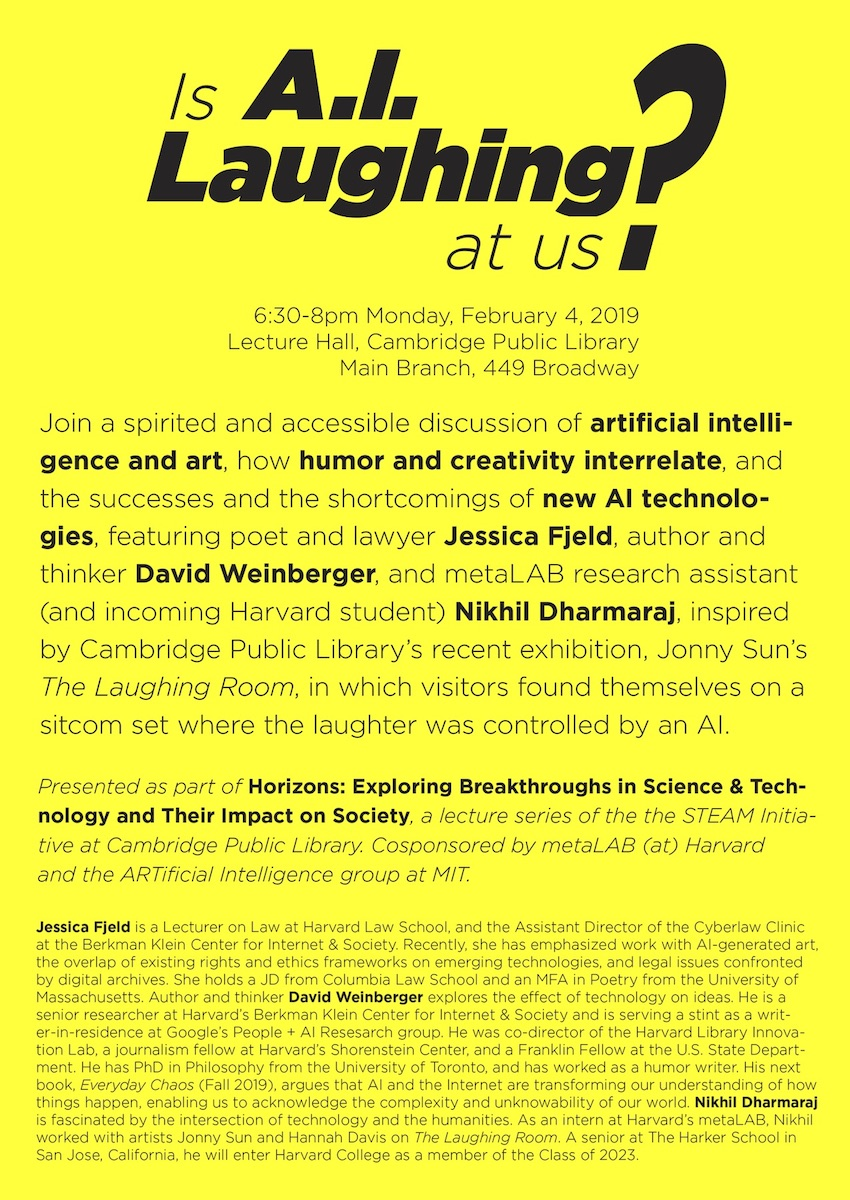
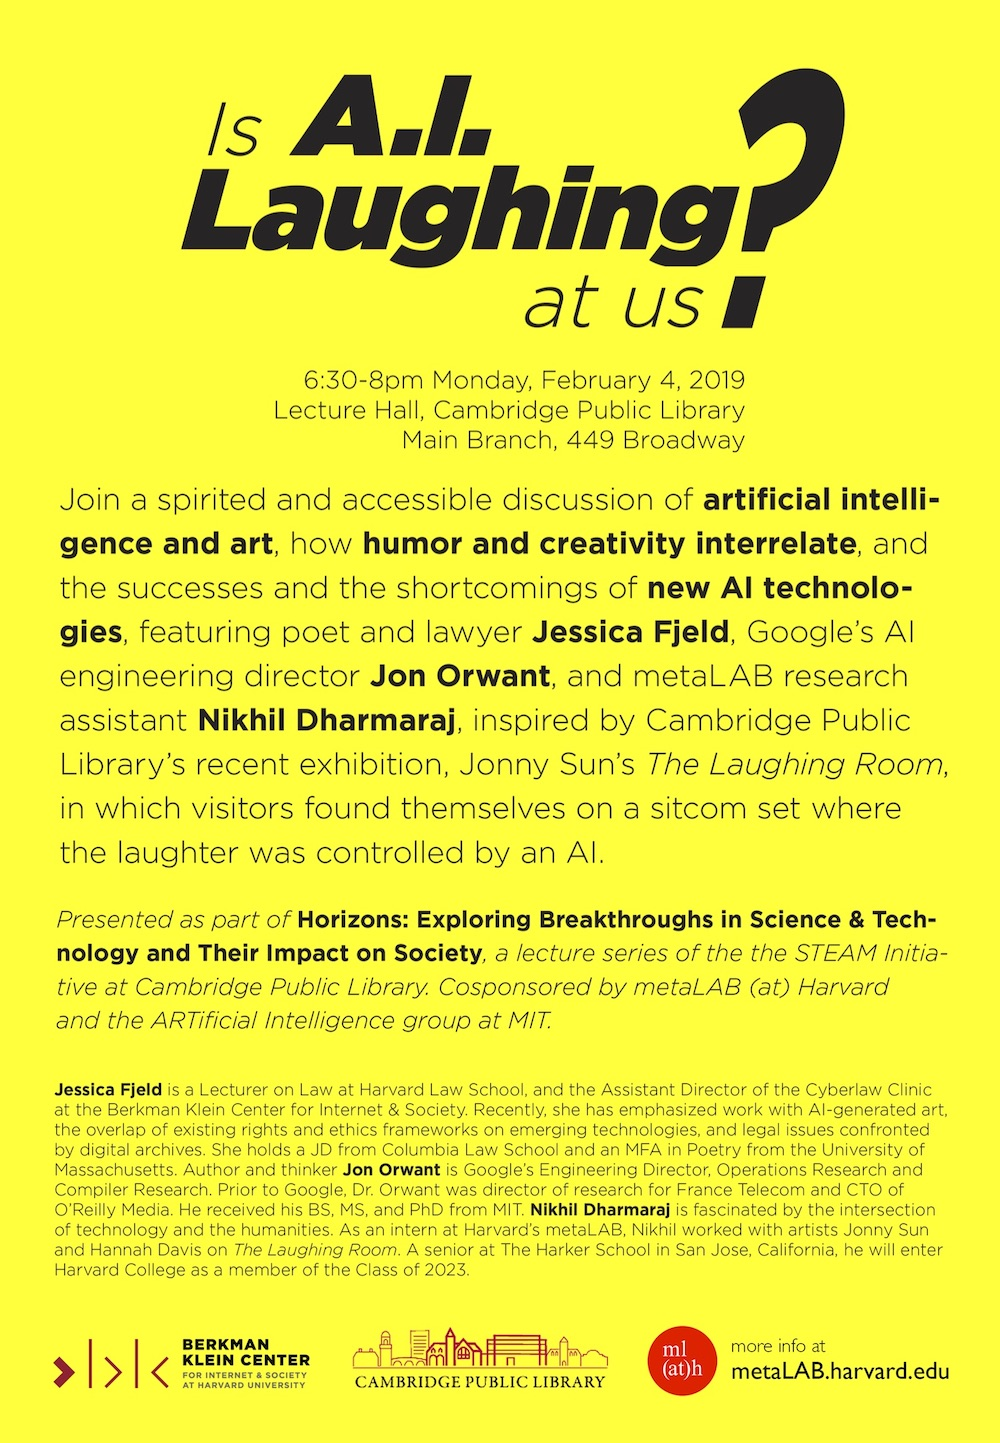
ai laughing update

Changed region(s): [[0.0306, 0.0308, 0.9788, 0.9867]]

diff --git a/_projects/ailaughing.md b/_projects/ailaughing.md
@@ -27,7 +27,7 @@ thumbnail_format:
 media:
   - medium:
     image: img0.jpg
-    id: "00"
+    id: "0"
     stat: featured
 
 
@@ -48,10 +48,14 @@ A conversation with David Weinberger, Jessica Fjeld, and Nikhil Dharmaraj"
 Monday, February 04, 2019, 6:30-8pm<br />
 Lecture Hall, Main Branch, 449 Broadway**
 
-Join a spirited and accessible discussion of artificial intelligence and art, how humor and creativity interrelate, and the successes and the shortcomings of new Al technologies, featuring poet and lawyer Jessica Fjeld, author and thinker David Weinberger, and metaLAB research assistant (and incoming Harvard student) Nikhil Dharmaraj. Inspired by Cambridge Public Library's recent exhibition, **[The Laughing Room by Jonny Sun and Hannah Davis](../laughingroom)**, in which visitors found themselves on a sitcom set where the laughter was controlled by an Al.
+Join a spirited and accessible discussion of artificial intelligence and art, how humor and creativity interrelate, and the successes and the shortcomings of new Al technologies, featuring poet and lawyer Jessica Fjeld, Google AI Engineering Director Jon Orwant, and metaLAB research assistant (and incoming Harvard student) Nikhil Dharmaraj. Inspired by Cambridge Public Library's recent exhibition, **[The Laughing Room by Jonny Sun and Hannah Davis](../laughingroom)**, in which visitors found themselves on a sitcom set where the laughter was controlled by an Al.
 
 *Presented as part of Horizons: Exploring Breakthroughs in Science & Technology and Their Impact on Society, a lecture series of the the STEAM Initiative at Cambridge Public Library Cosponsored by metaLAB (at) Harvard and the ARTificial Intelligence group at MIT.*
 
-**Jessica Fjeld** is a Lecturer on Law at Harvard Law School. and the Assistant Director of the Cyberlaw Clinic at the Berkman Klein Center for Internet & Society. Recently, she has emphasized work with Al-generated art. the overlap of existing rights and ethics frameworks on emerging technologies. and legal issues confronted by digital archives. She holds a JD from Columbia Law School and an MFA in Poetry from the University of Massachusetts. Author and thinker **David Weinberger** explores the effect of technology on ideas. He is a senior researcher at Harvard's Berkman Klein Center for Internet & Society and is serving a stint as a writer-in-residence at Google's People + Al Resesarch group He was co-director of the Harvard Library Innovation Lab. a journalism fellow at Harvard's Shorenstein Center. and a Franklin Fellow at the US. State Department. He has PhD in Philosophy from the University of Toronto, and has worked as a humor writer. His next book, *Everyday Chaos* (Fall 2019). argues that Al and the Internet are transforming our understanding of how things happen, enabling us to acknowledge the complexity and unknowability of our world. **Nikhil Dharmaraj** is fascinated by the intersection of technology and the humanities. As an intern at Harvard's metaLAB, Nikhil worked with artists Jonny Sun and Hannah Davis on The Laughing Room. A senior at The Harker School in San Jose, California, he will enter Harvard College as a member of the Class of 2023.
+**Jessica Fjeld** is a Lecturer on Law at Harvard Law School. and the Assistant Director of the Cyberlaw Clinic at the Berkman Klein Center for Internet & Society. Recently, she has emphasized work with Al-generated art. the overlap of existing rights and ethics frameworks on emerging technologies. and legal issues confronted by digital archives. She holds a JD from Columbia Law School and an MFA in Poetry from the University of Massachusetts. 
+
+**Jon Orwant** is Google’s Engineering Director for AI, Operations Research and Compiler Research. Prior to Google, Dr. Orwant was director of research for France Telecom and CTO of O’Reilly Media. He received his BS, MS, and PhD from MIT.
+
+**Nikhil Dharmaraj** is fascinated by the intersection of technology and the humanities. As an intern at Harvard's metaLAB, Nikhil worked with artists Jonny Sun and Hannah Davis on The Laughing Room. A senior at The Harker School in San Jose, California, he will enter Harvard College as a member of the Class of 2023.
 
 
